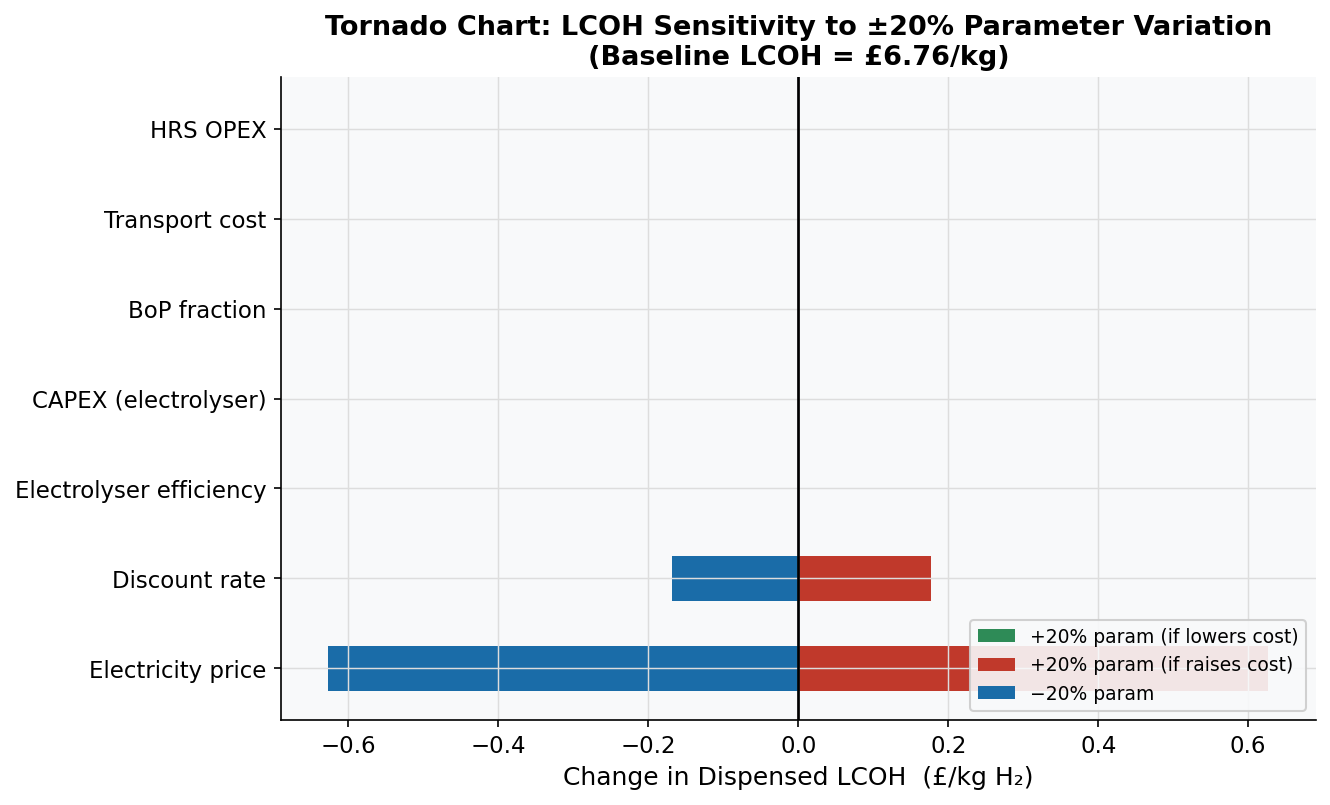
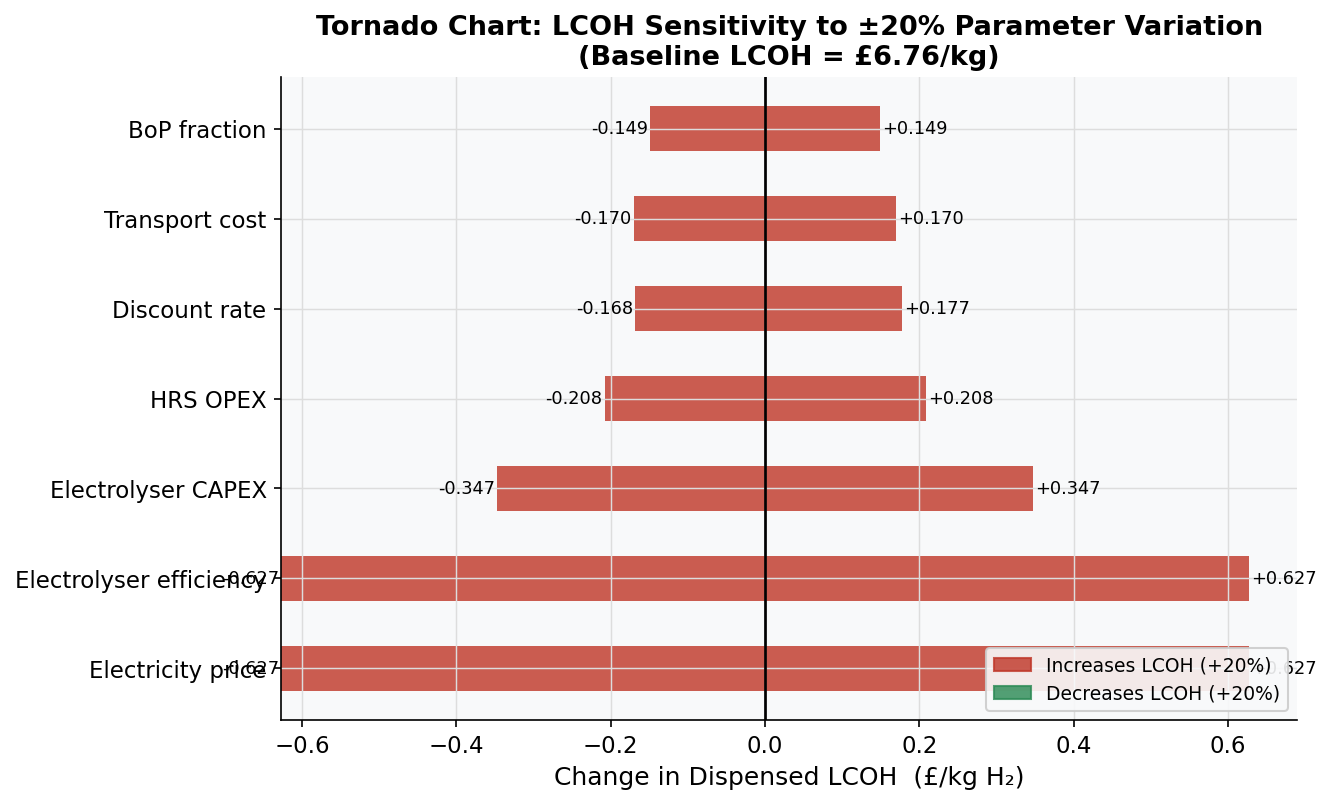
Initial commit

diff --git a/src/sensitivity.py b/src/sensitivity.py
@@ -28,7 +28,8 @@ from src.parameters import (
     ELECTRICITY_PRICE_GBP_MWH, CARBON_PRICE_BASELINE,
     DISCOUNT_RATE, PROJECT_LIFE_YR, DIESEL_PRICE_GBP_LITRE,
     TRANSPORT_COST_GBP_KG, HRS_OPEX_GBP_KG,
-    ELECTROLYSER_EFFICIENCY_KWH_KG,
+    ELECTROLYSER_EFFICIENCY_KWH_KG, ELECTROLYSER_COST_PER_KW,
+    BOP_FRACTION,
 )
 from src.economics import (
     calculate_lcoh, calculate_annual_costs, calculate_npv_irr, diesel_breakeven_price
@@ -380,66 +381,29 @@ def plot_capex_breakdown():
 def plot_tornado_lcoh():
     """
     One-at-a-time sensitivity: each parameter varied ±20% from baseline.
-    Shows the resulting change in total dispensed LCOH.
+    Uses explicit override kwargs in calculate_lcoh — avoids the Python
+    'from ... import' local-binding issue that makes monkey-patching ineffective.
     """
     baseline_lcoh = calculate_lcoh().total_dispensed_cost_gbp_kg
 
-    # Parameter definitions: (label, param_name, low_multiplier, high_multiplier)
+    # Each entry: (display label, kwarg name in calculate_lcoh, baseline value)
     params = [
-        ("Electricity price",         "elec",    0.80, 1.20),
-        ("Electrolyser efficiency",   "eff",     0.80, 1.20),
-        ("CAPEX (electrolyser)",      "capex",   0.80, 1.20),
-        ("BoP fraction",              "bop",     0.80, 1.20),
-        ("Transport cost",            "trans",   0.80, 1.20),
-        ("HRS OPEX",                  "hrs",     0.80, 1.20),
-        ("Discount rate",             "dr",      0.80, 1.20),
+        ("Electricity price",       "electricity_price_gbp_mwh",        ELECTRICITY_PRICE_GBP_MWH),
+        ("Electrolyser efficiency", "electrolyser_efficiency_kwh_kg",    ELECTROLYSER_EFFICIENCY_KWH_KG),
+        ("Electrolyser CAPEX",      "electrolyser_cost_per_kw",          ELECTROLYSER_COST_PER_KW),
+        ("BoP fraction",            "bop_fraction",                      BOP_FRACTION),
+        ("Transport cost",          "transport_cost_gbp_kg",             TRANSPORT_COST_GBP_KG),
+        ("HRS OPEX",                "hrs_opex_gbp_kg_override",          HRS_OPEX_GBP_KG),
+        ("Discount rate",           "discount_rate",                     DISCOUNT_RATE),
     ]
 
-    from src.parameters import (
-        ELECTROLYSER_EFFICIENCY_KWH_KG as EFF,
-        BOP_FRACTION, TRANSPORT_COST_GBP_KG as TC, HRS_OPEX_GBP_KG as HO,
-    )
-
     results = []
-    for label, key, low_m, high_m in params:
-        # --- low ---
-        if key == "elec":
-            low_val  = calculate_lcoh(ELECTRICITY_PRICE_GBP_MWH * low_m).total_dispensed_cost_gbp_kg
-            high_val = calculate_lcoh(ELECTRICITY_PRICE_GBP_MWH * high_m).total_dispensed_cost_gbp_kg
-        elif key == "dr":
-            low_val  = calculate_lcoh(discount_rate=DISCOUNT_RATE * low_m).total_dispensed_cost_gbp_kg
-            high_val = calculate_lcoh(discount_rate=DISCOUNT_RATE * high_m).total_dispensed_cost_gbp_kg
-        elif key in ("eff", "capex", "bop", "trans", "hrs"):
-            # Perturb parameters inline by monkey-patching temporarily
-            import src.parameters as P
-            orig_vals = {
-                "eff":   P.ELECTROLYSER_EFFICIENCY_KWH_KG,
-                "capex": P.ELECTROLYSER_COST_PER_KW,
-                "bop":   P.BOP_FRACTION,
-                "trans": P.TRANSPORT_COST_GBP_KG,
-                "hrs":   P.HRS_OPEX_GBP_KG,
-            }
-            attr_map = {
-                "eff": "ELECTROLYSER_EFFICIENCY_KWH_KG",
-                "capex": "ELECTROLYSER_COST_PER_KW",
-                "bop": "BOP_FRACTION",
-                "trans": "TRANSPORT_COST_GBP_KG",
-                "hrs": "HRS_OPEX_GBP_KG",
-            }
-            attr = attr_map[key]
-            orig = getattr(P, attr)
-
-            setattr(P, attr, orig * low_m)
-            low_val = calculate_lcoh().total_dispensed_cost_gbp_kg
-            setattr(P, attr, orig * high_m)
-            high_val = calculate_lcoh().total_dispensed_cost_gbp_kg
-            setattr(P, attr, orig)  # restore
-        else:
-            continue
-
+    for label, kwarg, base_val in params:
+        low_val  = calculate_lcoh(**{kwarg: base_val * 0.80}).total_dispensed_cost_gbp_kg
+        high_val = calculate_lcoh(**{kwarg: base_val * 1.20}).total_dispensed_cost_gbp_kg
         results.append((label, low_val - baseline_lcoh, high_val - baseline_lcoh))
 
-    # Sort by total swing descending
+    # Sort by total swing (largest impact at top)
     results.sort(key=lambda x: abs(x[2] - x[1]), reverse=True)
 
     labels = [r[0] for r in results]
@@ -448,21 +412,34 @@ def plot_tornado_lcoh():
 
     fig, ax = plt.subplots(figsize=(9, 5.5))
     y = np.arange(len(labels))
-    ax.barh(y, [h if h < 0 else 0 for h in highs], left=0,
-            color=PALETTE["green"], height=0.5, label="+20% param (if lowers cost)")
-    ax.barh(y, [h if h > 0 else 0 for h in highs], left=0,
-            color=PALETTE["red"], height=0.5, label="+20% param (if raises cost)")
-    ax.barh(y, [l if l > 0 else 0 for l in lows], left=0,
-            color=PALETTE["green"], height=0.5)
-    ax.barh(y, [l if l < 0 else 0 for l in lows], left=0,
-            color=PALETTE["blue"], height=0.5, label="−20% param")
+
+    for i, (lo, hi) in enumerate(zip(lows, highs)):
+        # Bar spanning from low to high, centred on zero
+        left  = min(lo, hi)
+        width = abs(hi - lo)
+        colour = PALETTE["red"] if hi > 0 else PALETTE["green"]
+        ax.barh(i, width, left=left, height=0.5, color=colour, alpha=0.82)
+
+        # Annotate low/high values
+        ax.text(lo - 0.003, i, f"{lo:+.3f}", va="center", ha="right", fontsize=8.5)
+        ax.text(hi + 0.003, i, f"{hi:+.3f}", va="center", ha="left",  fontsize=8.5)
 
     ax.set_yticks(y)
     ax.set_yticklabels(labels, fontsize=11)
     ax.axvline(0, color="black", lw=1.3)
     ax.set_xlabel("Change in Dispensed LCOH  (£/kg H₂)")
-    ax.set_title(f"Tornado Chart: LCOH Sensitivity to ±20% Parameter Variation\n(Baseline LCOH = £{baseline_lcoh:.2f}/kg)")
-    ax.legend(fontsize=9, loc="lower right")
+    ax.set_title(
+        f"Tornado Chart: LCOH Sensitivity to ±20% Parameter Variation\n"
+        f"(Baseline LCOH = £{baseline_lcoh:.2f}/kg)"
+    )
+
+    # Custom legend
+    from matplotlib.patches import Patch
+    ax.legend(handles=[
+        Patch(color=PALETTE["red"],   alpha=0.82, label="Increases LCOH (+20%)"),
+        Patch(color=PALETTE["green"], alpha=0.82, label="Decreases LCOH (+20%)"),
+    ], fontsize=9, loc="lower right")
+
     fig.tight_layout()
     _savefig(fig, "lcoh_sensitivity_tornado.png")
 

diff --git a/src/economics.py b/src/economics.py
@@ -22,6 +22,7 @@ from src.parameters import (
     DAILY_MILEAGE_KM, TOTAL_BUSES, DAYS_PER_YEAR,
     ELECTROLYSER_OPEX_FRAC, STACK_REPLACEMENT_FRACTION,
     OPERATING_HOURS_PER_YR, CARBON_PRICE_BASELINE,
+    ELECTROLYSER_COST_PER_KW, BOP_FRACTION,
 )
 from src.demand import calculate_demand
 from src.infrastructure import calculate_capex
@@ -89,13 +90,15 @@ class LCOHBreakdown:
 
 
 def calculate_lcoh(
-    electricity_price_gbp_mwh: float = ELECTRICITY_PRICE_GBP_MWH,
-    electrolyser_efficiency_kwh_kg: float = ELECTROLYSER_EFFICIENCY_KWH_KG,
-    electrolyser_cost_per_kw: float = ELECTROLYSER_COST_PER_KW,
-    bop_fraction: float = BOP_FRACTION,
-    transport_cost_gbp_kg: float = TRANSPORT_COST_GBP_KG,
-    hrs_opex_gbp_kg_override: float = HRS_OPEX_GBP_KG,
-    discount_rate: float = DISCOUNT_RATE,
+    electricity_price_gbp_mwh:  float = ELECTRICITY_PRICE_GBP_MWH,
+    discount_rate:               float = DISCOUNT_RATE,
+    # Explicit overrides for sensitivity / tornado analysis.
+    # When None, the value from parameters.py is used.
+    electrolyser_efficiency_kwh_kg: Optional[float] = None,
+    electrolyser_cost_per_kw:       Optional[float] = None,
+    bop_fraction:                   Optional[float] = None,
+    transport_cost_gbp_kg:          Optional[float] = None,
+    hrs_opex_gbp_kg_override:       Optional[float] = None,
 ) -> LCOHBreakdown:
     """
     Levelised Cost of Hydrogen at the dispenser (£/kg).
@@ -106,20 +109,31 @@ def calculate_lcoh(
     2. CAPEX amortised: annual_capex / annual_production
     3. Non-energy OPEX: opex_frac × CAPEX / annual_production
     4. Stack replacement: stack_frac × CAPEX / annual_production
+
+    All parameters default to the values in parameters.py. Pass explicit values
+    to override individual parameters for sensitivity analysis — this avoids the
+    Python "from ... import" local-binding issue that breaks monkey-patching.
     """
-    # Allow overriding electrolyser CAPEX/BoP via arguments and pass them to calculate_capex
+    # Resolve effective parameter values
+    eff      = electrolyser_efficiency_kwh_kg if electrolyser_efficiency_kwh_kg is not None else ELECTROLYSER_EFFICIENCY_KWH_KG
+    cost_kw  = electrolyser_cost_per_kw       if electrolyser_cost_per_kw       is not None else ELECTROLYSER_COST_PER_KW
+    bop_frac = bop_fraction                   if bop_fraction                   is not None else BOP_FRACTION
+    trans    = transport_cost_gbp_kg          if transport_cost_gbp_kg          is not None else TRANSPORT_COST_GBP_KG
+    hrs_opex = hrs_opex_gbp_kg_override       if hrs_opex_gbp_kg_override       is not None else HRS_OPEX_GBP_KG
+
+    # Recalculate electrolyser CAPEX with potentially overridden cost/kW and BoP fraction
+    from src.infrastructure import calculate_capex
     capex = calculate_capex(
-        electrolyser_cost_per_kw=electrolyser_cost_per_kw,
-        bop_fraction=bop_fraction,
+        electrolyser_cost_per_kw=cost_kw,
+        bop_fraction=bop_frac,
     )
-    demand = calculate_demand()
 
     # Annual H2 production from new electrolyser
     annual_prod_kg = NEW_ELECTROLYSER_MWE * ELECTROLYSER_YIELD * DAYS_PER_YEAR
 
     # 1. Electricity cost
-    elec_gbp_kwh = electricity_price_gbp_mwh / 1_000
-    electricity_cost = electrolyser_efficiency_kwh_kg * elec_gbp_kwh           # £/kg
+    elec_gbp_kwh    = electricity_price_gbp_mwh / 1_000
+    electricity_cost = eff * elec_gbp_kwh                                       # £/kg
 
     # 2. CAPEX amortised using capital recovery factor
     crf = _annuity_factor(discount_rate, ELECTROLYSER_LIFETIME_YR)
@@ -135,8 +149,7 @@ def calculate_lcoh(
     stack_per_kg = annual_stack / annual_prod_kg                                # £/kg
 
     production_lcoh = electricity_cost + capex_per_kg + opex_per_kg + stack_per_kg
-
-    total_cost = production_lcoh + transport_cost_gbp_kg + hrs_opex_gbp_kg_override
+    total_cost      = production_lcoh + trans + hrs_opex
 
     return LCOHBreakdown(
         electricity_cost_gbp_kg=round(electricity_cost, 3),
@@ -144,8 +157,8 @@ def calculate_lcoh(
         opex_non_energy_gbp_kg=round(opex_per_kg, 3),
         stack_replacement_gbp_kg=round(stack_per_kg, 3),
         production_lcoh_gbp_kg=round(production_lcoh, 3),
-        transport_gbp_kg=TRANSPORT_COST_GBP_KG,
-        hrs_opex_gbp_kg=HRS_OPEX_GBP_KG,
+        transport_gbp_kg=round(trans, 3),
+        hrs_opex_gbp_kg=round(hrs_opex, 3),
         total_dispensed_cost_gbp_kg=round(total_cost, 3),
     )
 
